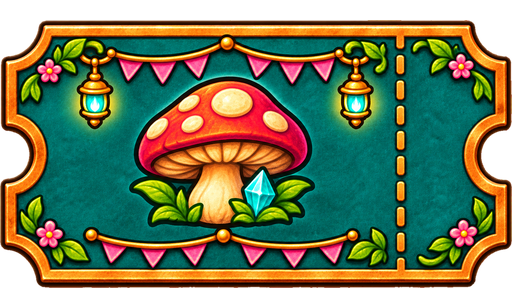
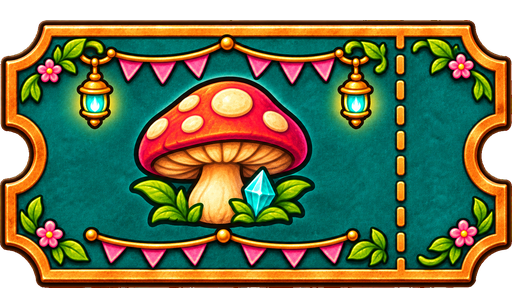
fix(salao): ticket de cogumelo a partir do original corrigido (RGBA)

diff --git a/docs/ASSETS-A-GERAR.md b/docs/ASSETS-A-GERAR.md
@@ -1098,7 +1098,7 @@ Pintados (padrão 23/09), alfa real, 256² em `E:/Soulmon-assets/pocoes-chips/{p
 
 ## 31. Ticket dos minijogos do Salão (pedido do dono, 09/11/2026, REGISTRO §270) — ✅ feito (arte PROVISÓRIA)
 
-**Instalado em 09/11/2026:** ticket turquesa com cogumelo vermelho (inspirado no prédio dos minijogos; ChatGPT, UI, **aprovado provisório pelo dono em 09/11/2026**, troca o ticket amarelo com controle do #700, que fica arquivado). Original 1586×992 em `E:/Soulmon-assets/gerar-chatgpt/ui-2026-11-09/ticket-inspirado-predio-cogumelo.png` (+ `.meta.json`). ⚠ **O original NÃO tem alfa** (fundo preto opaco, apesar do meta dizer "alfa real"): o recorte foi feito por preenchimento a partir das bordas (só o preto ligado ao fundo), com borda suavizada; no jogo `src/assets/soulmon/hud/ticket-minigame.png` (512×308, alfa, legível a 28 px). **Dívida:** regerar com fundo transparente de verdade (ChatGPT) quando a arte deixar de ser provisória. Usado por `components/play/TicketFan.tsx`.
+**Instalado em 09/11/2026:** ticket turquesa com cogumelo vermelho (inspirado no prédio dos minijogos; ChatGPT, UI, **aprovado provisório pelo dono em 09/11/2026**, troca o ticket amarelo com controle do #700, que fica arquivado). Original 1586×992 em `E:/Soulmon-assets/gerar-chatgpt/ui-2026-11-09/ticket-inspirado-predio-cogumelo.png` (+ `.meta.json`). O bruto veio RGB com fundo preto; a operacional corrigiu na origem (RGBA, alfa por preenchimento de borda; bruto em `...-bruto-preto.png`). No jogo `src/assets/soulmon/hud/ticket-minigame.png` (512×308, alfa, legível a 28 px). **Dívida:** o alfa é recorte, não geração transparente: regerar com fundo transparente de verdade (ChatGPT) quando a arte deixar de ser provisória. Usado por `components/play/TicketFan.tsx`.
 
 ## 32. Molduras do widget V-Pet por elemento (20 casos, pedido do dono, 09/11/2026)
 

diff --git a/docs/INVENTARIO-ASSETS.md b/docs/INVENTARIO-ASSETS.md
@@ -433,4 +433,4 @@ Fonte: `E:\Soulmon-assets\beta3-geradas\chatgpt\` (ChatGPT, alfa real; reduzidos
 
 > **Atualização 09/11/2026 (Vileza/Poder):** `soulmon/novos/vileza-{ultimate,mega,ultra}.png` (256², alfa real binário) substituídos por versões geradas via **API Higgsfield (regra: sprite só via API)**; Mega com 3 caudas de escorpião; fontes em `E:\Soulmon-assets\vileza-v2\`. `vileza-champion` e `vileza-rookie` inalterados. Ver `REGISTRO-DE-DECISOES.md` §272.
 
-> **09/11/2026 (Ticket dos minijogos, REGISTRO §270):** `soulmon/hud/ticket-minigame.png` (512×308, alfa real) — ticket turquesa com cogumelo (inspirado no prédio dos minijogos), **ChatGPT, UI, aprovado provisório pelo dono em 09/11/2026** (trocou o amarelo com controle; o original não tinha alfa, recorte por preenchimento). Original 1586×992 e prompt/tags em `E:/Soulmon-assets/gerar-chatgpt/ui-2026-11-09/ticket-inspirado-predio-cogumelo.{png,meta.json}`. Usado em `components/play/TicketFan.tsx`.
+> **09/11/2026 (Ticket dos minijogos, REGISTRO §270):** `soulmon/hud/ticket-minigame.png` (512×308, alfa real) — ticket turquesa com cogumelo (inspirado no prédio dos minijogos), **ChatGPT, UI, aprovado provisório pelo dono em 09/11/2026** (trocou o amarelo com controle; o bruto veio sem alfa; alfa por recorte de borda feito na origem). Original 1586×992 e prompt/tags em `E:/Soulmon-assets/gerar-chatgpt/ui-2026-11-09/ticket-inspirado-predio-cogumelo.{png,meta.json}`. Usado em `components/play/TicketFan.tsx`.
